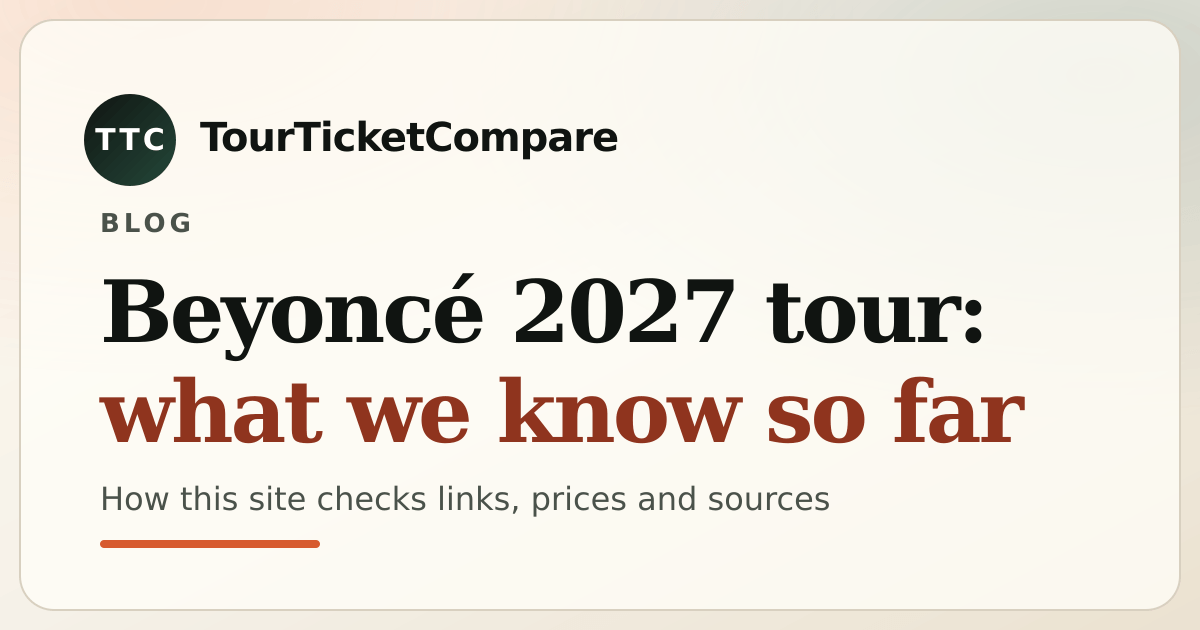
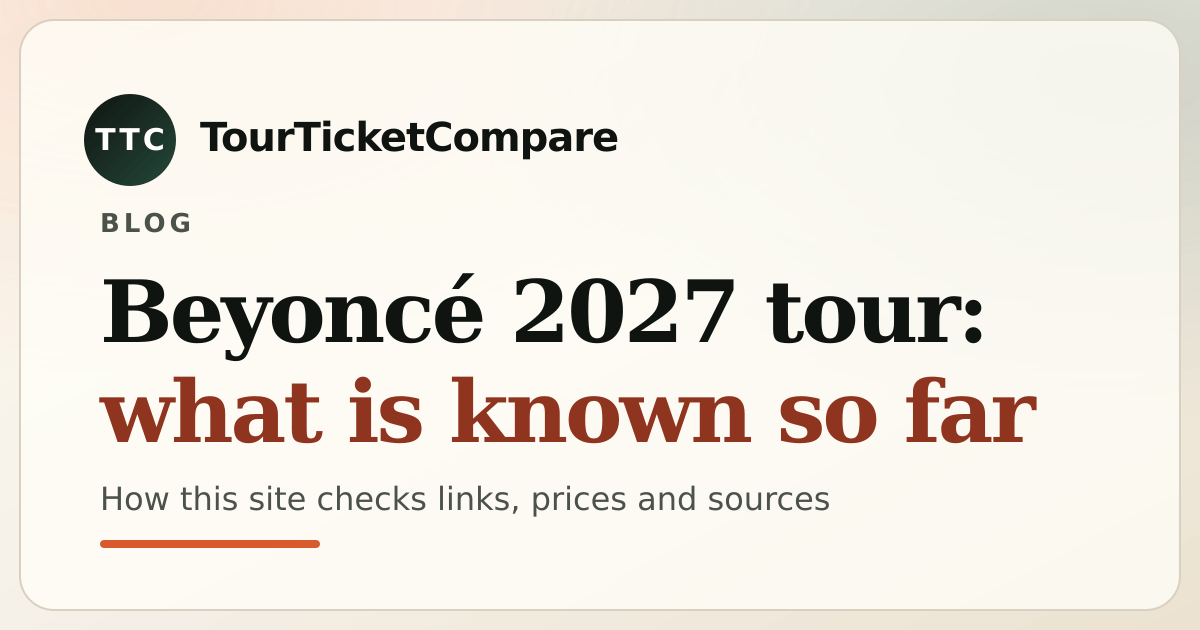
Beyoncé post: drop first-person plural from the title
smoke-prelaunch site-voice check rejects 'we' in visible copy; the title now reads
'what is known so far'.

Claude-Session: https://claude.ai/code/session_01VdqvQd7vKfKYjrKC8AQ31J

Changed region(s): [[0.2775, 0.573, 0.8633, 0.7238]]

diff --git a/functions/_og-cards.generated.js b/functions/_og-cards.generated.js
@@ -740,7 +740,7 @@ export const OG_CARDS = {
   "/artists/zach-bryan/tickets/east-rutherford-united-states": {"url":"/og/artists-zach-bryan-tickets-east-rutherford-united-states.png","alt":"Tickets: Zach Bryan in East Rutherford"},
   "/artists/zach-bryan/tickets/vancouver-canada": {"url":"/og/artists-zach-bryan-tickets-vancouver-canada.png","alt":"Tickets: Zach Bryan in Vancouver"},
   "/artists/zach-top": {"url":"/og/artists-zach-top.png","alt":"Tickets & tour dates: Zach Top"},
-  "/blog/beyonce-2027-tour-what-we-know": {"url":"/og/blog-beyonce-2027-tour-what-we-know.png","alt":"Blog: Beyoncé 2027 tour: what we know so far"},
+  "/blog/beyonce-2027-tour-what-we-know": {"url":"/og/blog-beyonce-2027-tour-what-we-know.png","alt":"Blog: Beyoncé 2027 tour: what is known so far"},
   "/blog/bruno-mars-falcon-stadium-base-access": {"url":"/og/blog-bruno-mars-falcon-stadium-base-access.png","alt":"Blog: Bruno Mars at Falcon Stadium: September 2026 entry guidance"},
   "/blog/buying-tickets-for-a-concert-in-another-country": {"url":"/og/blog-buying-tickets-for-a-concert-in-another-country.png","alt":"Blog: Buying tickets for a concert in another country"},
   "/blog/carly-rae-jepsen-tour-ticket-prices-by-city": {"url":"/og/blog-carly-rae-jepsen-tour-ticket-prices-by-city.png","alt":"Blog: Carly Rae Jepsen tour tickets: listed prices city by city"},

diff --git a/content/blog/beyonce-2027-tour-what-we-know.md b/content/blog/beyonce-2027-tour-what-we-know.md
@@ -1,6 +1,6 @@
 ---
-title: "Beyoncé 2027 tour: what we know so far"
-seo_title: "Beyoncé 2027 tour: what we know so far"
+title: "Beyoncé 2027 tour: what is known so far"
+seo_title: "Beyoncé 2027 tour: what is known so far"
 description: "No Beyoncé tour has been announced. What has been reported about a 2027 run, what is only speculation, and how to avoid buying for a date that does not exist."
 summary: "As of 2 November 2026 Beyoncé has not announced a tour. A 2027 run has been predicted and rumoured, but none of it is confirmed. Here is what is reported, what is not, and what to do before an announcement."
 date: 2026-11-02
